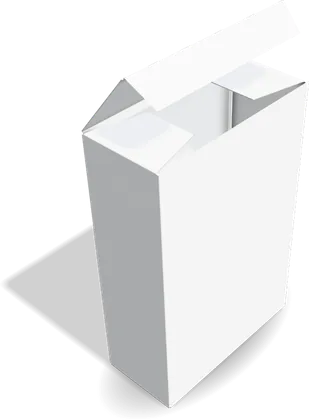
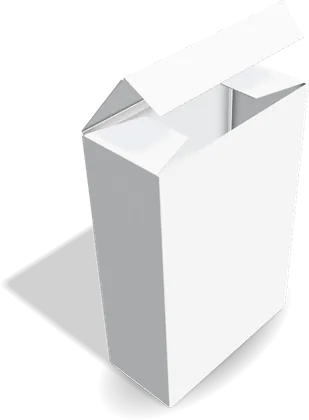
Start the straight tuck end box at a real carton size: 65 × 160 × 65 mm
The straight tuck end box opened at 240 × 100 × 160 mm, a wide, flat
shape no tuck end carton is made at. It now starts at width 65, height
160 and depth 65 mm, the tall, square-section carton used for bottles,
cosmetics and supplements. Saved designs keep their own sizes.

The template thumbnails are re-rendered from the Studio's renderer, so
the straight tuck card shows the new carton and every card shows the
rebuilt templates; the tall straight tuck and the split top are framed
a little wider so their open lids stay in the picture.

Claude-Session: https://claude.ai/code/session_01AosEoHGp9fRkJBNR4UPrD4

diff --git a/src/lib/packaging/template-registry.ts b/src/lib/packaging/template-registry.ts
@@ -98,13 +98,13 @@ export const PACKAGING_TEMPLATES: PackagingTemplateDefinition[] = [
     structureKey: 'base-box-v1',
     capabilities: ['dieline','3d','interior-artwork','full-dieline-artwork'],
     parameters: [
-      { key: 'width', label: 'Width', unit: 'mm', min: 1, step: 1, defaultValue: 240 },
-      { key: 'height', label: 'Height', unit: 'mm', min: 1, step: 1, defaultValue: 100 },
-      { key: 'depth', label: 'Depth', unit: 'mm', min: 1, step: 1, defaultValue: 160 },
+      { key: 'width', label: 'Width', unit: 'mm', min: 1, step: 1, defaultValue: 65 },
+      { key: 'height', label: 'Height', unit: 'mm', min: 1, step: 1, defaultValue: 160 },
+      { key: 'depth', label: 'Depth', unit: 'mm', min: 1, step: 1, defaultValue: 65 },
       { key: 'thickness', label: 'Board thickness', unit: 'mm', min: 0.3, max: 2, step: 0.1, defaultValue: 0.5 },
     ],
     artworkRegions: [...exteriorRegions, ...interiorRegions],
-    defaultDimensions: { width: 240, height: 100, depth: 160, thickness: 0.5 },
+    defaultDimensions: { width: 65, height: 160, depth: 65, thickness: 0.5 },
     status: 'ready',
   },
   {
